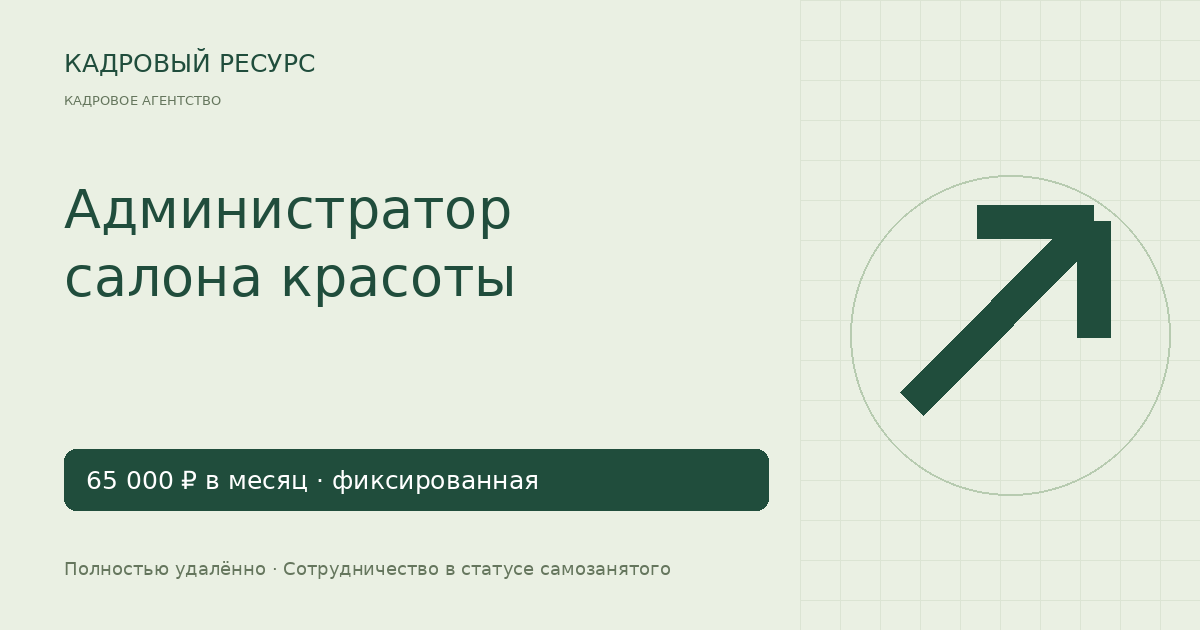
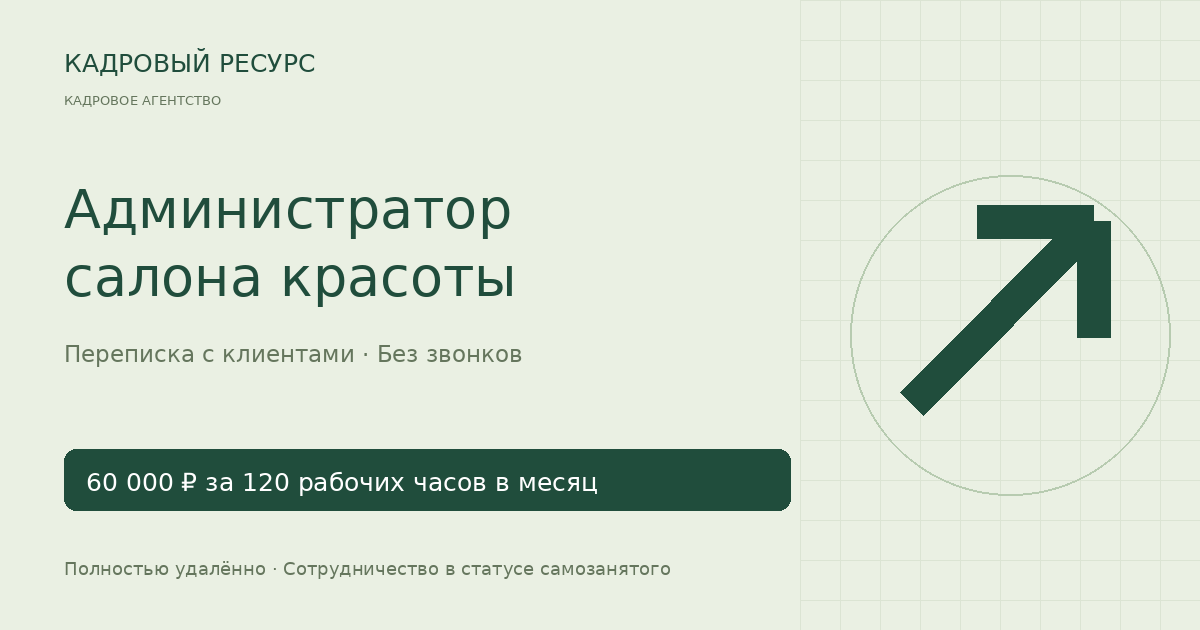
Update beauty administrator role to new messaging-only terms

Changed region(s): [[0.0617, 0.754, 0.4933, 0.7841], [0.0617, 0.5429, 0.4317, 0.573], [0.6167, 0.6937, 0.6783, 0.8143]]

diff --git a/public/styles.css b/public/styles.css
@@ -17,3 +17,5 @@
 .company-details{border-top:1px solid var(--line);margin-top:28px;padding-top:24px}.company-details h2{font-size:16px;letter-spacing:0;margin-bottom:10px}.company-details p{font-size:13px}.company-details dl{display:flex;flex-wrap:wrap;gap:12px 32px;margin:12px 0 0;font-size:12px;color:var(--muted)}.company-details dl>div{display:flex;flex-wrap:wrap;gap:8px}.company-details dd{margin:0;color:var(--ink);overflow-wrap:anywhere}
 
 .company-details .company-description{max-width:850px;font-size:14px;line-height:1.8;margin-bottom:18px}
+
+.vacancy-content .job-description{margin-bottom:22px}
